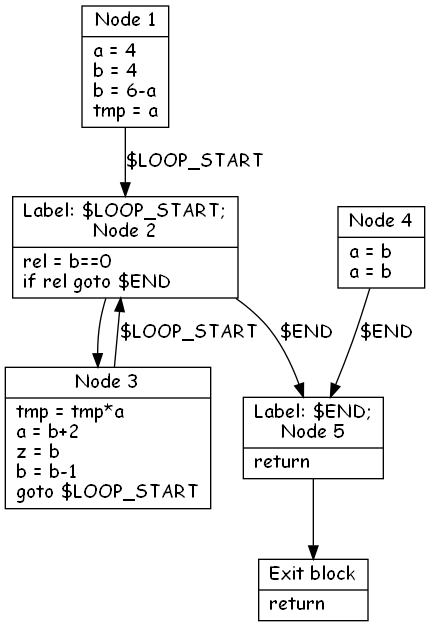
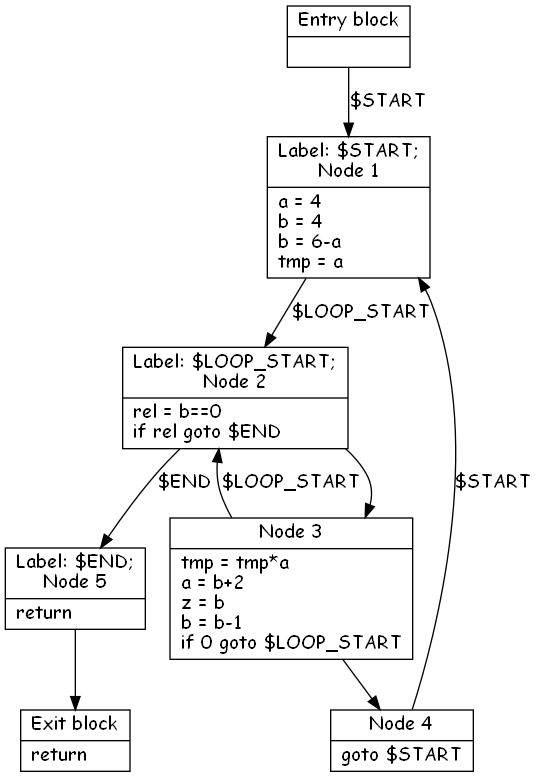
.

Changed region(s): [[0.0, 0.0, 0.9977, 1.0]]

diff --git a/tac_worker/dataflow_graph.cpp b/tac_worker/dataflow_graph.cpp
@@ -12,8 +12,14 @@ void remove_blocks_without_predecessors(std::vector<std::unique_ptr<Node>> &node
 
 
 void add_exit_block(std::vector<std::unique_ptr<Node>> &nodes) {
+    auto entry_block = std::make_unique<Node>();
+    entry_block->node_name = "Entry block";
+    entry_block->id = 0;
+    entry_block->add_successor(nodes.front().get());
+
     auto exit_node = std::make_unique<Node>();
     exit_node->node_name = "Exit block";
+    exit_node->id = nodes.back()->id+1;
     exit_node->quads.emplace_back(Quadruple({}, {}, OperationType::Return));
 
     // find blocks without successors (ending blocks) and connect them with exit block
@@ -23,7 +29,41 @@ void add_exit_block(std::vector<std::unique_ptr<Node>> &nodes) {
         }
     }
 
-    nodes.emplace_back(std::move(exit_node));
+    nodes.insert(nodes.begin(), std::move(entry_block));
+    nodes.push_back(std::move(exit_node));
+}
+
+
+void print_loops(std::vector<std::unique_ptr<Node>> &nodes) {
+
+    // generate ids for node names
+    std::map<int, std::string> name_by_id;
+    std::map<std::string, int> id_by_name;
+    int counter = 0;
+    for (const auto &n: nodes) {
+        name_by_id[counter] = n->node_name;
+        id_by_name[n->node_name] = counter;
+        ++counter;
+    }
+
+    std::map<int, std::list<int>> adjacency_list;
+    for (const auto &n: nodes) {
+        adjacency_list[id_by_name[n->node_name]] = {};
+        for (const auto &s: n->successors) {
+            adjacency_list[id_by_name[n->node_name]].emplace_back(id_by_name[s->node_name]);
+        }
+    }
+
+    LoopFinder l = LoopFinder(adjacency_list);
+    l.find();
+
+    std::cout << "Loops: " << std::endl;
+    for (const auto &loop : l.loops) {
+        for (const auto &i : loop) {
+            std::cout << name_by_id.at(i) << " -> ";
+        }
+        std::cout << std::endl;
+    }
 }
 
 void make_cfg(std::map<std::string, int> &&labels, std::vector<Quadruple> &&quads) {
@@ -48,11 +88,12 @@ void make_cfg(std::map<std::string, int> &&labels, std::vector<Quadruple> &&quad
     remove_blocks_without_predecessors(nodes);
     add_exit_block(nodes);
 //    constant_folding(nodes);
-    liveness_analyses(nodes);
-
+//    liveness_analyses(nodes);
+    print_loops(nodes);
 
     print_cfg(nodes, "after.png");
 }
+
 
 void remove_blocks_without_predecessors(std::vector<std::unique_ptr<Node>> &nodes) {
     for (int i = nodes.size() - 1; i > 0; --i) {
@@ -157,7 +198,7 @@ void print_cfg(const std::vector<std::unique_ptr<Node>> &nodes, std::string file
     DotWriter dot_writer;
     std::set<std::string> visited;
     // print edges
-    for (auto &n : nodes) {
+    for (const auto &n : nodes) {
         if (visited.find(n->node_name) == visited.end()) {
             visited.insert(n->node_name);
 
@@ -223,6 +264,7 @@ auto get_basicblocks_from_indices(const std::vector<Quadruple> &quads,
                 nodes.emplace_back(curr_node);
             }
             curr_node = new Node();
+            curr_node->id = node_number;
             curr_node->node_name = "Node " + std::to_string(node_number++);
 
             if (auto lbl = labels_rev.find(i); lbl != labels_rev.end())

diff --git a/tac_worker/LoopFinder.cpp b/tac_worker/LoopFinder.cpp
@@ -1,0 +1,108 @@
+#include <vector>
+#include <iostream>
+#include <algorithm>
+#include <list>
+#include <map>
+
+struct LoopFinder {
+    std::vector<int> stack;
+    std::map<int, std::list<int>> a;
+    std::vector<std::list<int>> b;
+    std::vector<bool> blocked;
+    int n;
+    int s;
+
+    std::vector<std::vector<int>> loops;
+
+    static void Start() {
+        std::map<int, std::list<int>> a;
+        a.emplace(0, std::list<int>{1}); // 0
+        a.emplace(1, std::list<int>{2, 3});  // 1
+        a.emplace(2, std::list<int>{1});  // 2
+        a.emplace(3, std::list<int>{4}); // 3
+        a.emplace(4, std::list<int>{}); // 4
+
+        LoopFinder cf = LoopFinder(a);
+        cf.find();
+
+        std::cout << "Unique loops: " << std::endl;
+        for (const auto &loop : cf.loops) {
+            for (const auto &el : loop) {
+                std::cout << el << " ";
+            }
+            std::cout << std::endl;
+        }
+
+    }
+
+    LoopFinder(const std::map<int, std::list<int>> &a) : a(a), n(a.size()) {
+        for (int i = 0; i < n; i++) {
+            b.emplace_back();
+            blocked.emplace_back(false);
+        }
+    }
+
+    void unblock(int u) {
+        blocked[u] = false;
+        while (!b[u].empty()) {
+            int w = b[u].front();
+            b[u].pop_front();
+            if (blocked[w]) unblock(w);
+        }
+    }
+
+    bool circuit(int v) {
+        bool f = false;
+        stack.push_back(v);
+        blocked[v] = true;
+        // L1
+        for (int w : a[v]) {
+            if (w == s) {
+                add_loop();
+                f = true;
+            } else if (!blocked[w])
+                if (circuit(w)) f = true;
+        }
+
+        // L2
+        if (f)
+            unblock(v);
+        else {
+            for (int w : a[v])
+                if (std::find(b[w].begin(), b[w].end(), v) == b[w].end())
+                    b[w].push_back(v);
+        }
+        stack.pop_back();
+        return f;
+    }
+
+    void add_loop() {
+        std::vector<int> loop;
+        for (int i : stack) {
+//            std::cout << i << " ";
+            loop.push_back(i);
+        }
+        loops.emplace_back(loop);
+//        std::cout << s << std::endl;
+    }
+
+    void find() {
+        s = 0;
+        while (s < n) {
+            if (!a.empty()) {
+                for (auto &[i, l] : a) {
+                    b[i].clear();
+                    blocked[i] = false;
+                }
+                // L3
+                circuit(s);
+                a.erase(s);
+                for (auto &[i, l] : a)
+                    if (auto it = std::find(a[i].begin(), a[i].end(), s); it != a[i].end())
+                        a[i].erase(it);
+                s++;
+            } else
+                s = n;
+        }
+    }
+};

diff --git a/cmake-build-debug/parser.hpp b/cmake-build-debug/parser.hpp
@@ -24,7 +24,7 @@
 // as a parser skeleton.  Alternatively, if you modify or redistribute
 // the parser skeleton itself, you may (at your option) remove this
 // special exception, which will cause the skeleton and the resulting
-// Bison output files to be licensed under the GNU General Public
+// Bison add_loop files to be licensed under the GNU General Public
 // License without this special exception.
 
 // This special exception was added by the Free Software Foundation in
@@ -1445,7 +1445,7 @@ switch (yykind)
     bool yy_lac_establish_ (symbol_kind_type yytoken);
     /// Discard any previous initial lookahead context because of event.
     /// \param event  the event which caused the lookahead to be discarded.
-    ///               Only used for debbuging output.
+    ///               Only used for debbuging add_loop.
     void yy_lac_discard_ (const char* event);
 
     /// Stored state numbers (used for stacks).
@@ -1529,7 +1529,7 @@ switch (yykind)
     std::ostream* yycdebug_;
 
     /// \brief Display a symbol kind, value and location.
-    /// \param yyo    The output stream.
+    /// \param yyo    The add_loop stream.
     /// \param yysym  The symbol.
     template <typename Base>
     void yy_print_ (std::ostream& yyo, const basic_symbol<Base>& yysym) const;
@@ -1734,14 +1734,14 @@ switch (yykind)
 
     /// Push a new state on the stack.
     /// \param m    a debug message to display
-    ///             if null, no trace is output.
+    ///             if null, no trace is add_loop.
     /// \param sym  the symbol
     /// \warning the contents of \a s.value is stolen.
     void yypush_ (const char* m, YY_MOVE_REF (stack_symbol_type) sym);
 
     /// Push a new look ahead token on the state on the stack.
     /// \param m    a debug message to display
-    ///             if null, no trace is output.
+    ///             if null, no trace is add_loop.
     /// \param s    the state
     /// \param sym  the symbol (for its value and location).
     /// \warning the contents of \a sym.value is stolen.

diff --git a/cmake-build-debug/parser.cpp b/cmake-build-debug/parser.cpp
@@ -24,7 +24,7 @@
 // as a parser skeleton.  Alternatively, if you modify or redistribute
 // the parser skeleton itself, you may (at your option) remove this
 // special exception, which will cause the skeleton and the resulting
-// Bison output files to be licensed under the GNU General Public
+// Bison add_loop files to be licensed under the GNU General Public
 // License without this special exception.
 
 // This special exception was added by the Free Software Foundation in
@@ -1088,7 +1088,7 @@ namespace yy {
 
 #if YYDEBUG
     // Execute LAC once. We don't care if it is successful, we
-    // only do it for the sake of debugging output.
+    // only do it for the sake of debugging add_loop.
     if (!yyparser_.yy_lac_established_)
       yyparser_.yy_lac_check_ (yyla_.kind ());
 #endif

diff --git a/DotWriter/DotWriter.cpp b/DotWriter/DotWriter.cpp
@@ -14,7 +14,7 @@ void DotWriter::set_node_name(const std::string &node, const std::string &name) 
 }
 
 void DotWriter::set_node_text(const std::string &node_name, const std::vector<std::string> &lines) {
-    node_texts.emplace(node_name, lines);
+    node_texts.emplace_back(node_name, lines);
 }
 
 void DotWriter::write_dot_to_file(const std::string &filename) {
@@ -80,6 +80,7 @@ void DotWriter::render_to_file(const std::string &filename) {
 
     GVC_t *gvc = gvContext();
     Agraph_t *g = agopen((char *) "g", Agdirected, nullptr);
+
 
     for (auto &[node, label_lines] : node_texts) {
         std::string final_label;

diff --git a/tac_worker/dataflow_graph.hpp b/tac_worker/dataflow_graph.hpp
@@ -2,19 +2,28 @@
 #define TAC_PARSER_DATAFLOW_GRAPH_HPP
 
 #include <set>
+#include <list>
+#include <map>
+
 #include <algorithm>
 #include <memory>
 
 #include "quadruple.hpp"
 #include "../DotWriter/DotWriter.h"
+#include "../tac_worker/LoopFinder.cpp"
 
 struct Node {
+    int id;
     std::string node_name;
     std::optional<std::string> lbl_name;
     std::vector<Quadruple> quads;
     std::optional<std::string> jumps_to;
     std::set<Node *> successors;
     std::set<Node *> predecessors;
+
+    std::string get_name() {
+        return "Node " + std::to_string(id);
+    }
 
     std::string fmt() const
     {

diff --git a/cmake-build-debug/lexer.cpp b/cmake-build-debug/lexer.cpp
@@ -678,7 +678,7 @@ static int input ( void );
 #endif /* __ia64__ */
 #endif
 
-/* Copy whatever the last rule matched to the standard output. */
+/* Copy whatever the last rule matched to the standard add_loop. */
 #ifndef ECHO
 /* %if-c-only Standard (non-C++) definition */
 /* This used to be an fputs(), but since the string might contain NUL's,
@@ -1986,7 +1986,7 @@ FILE *yyget_in  (void)
         return yyin;
 }
 
-/** Get the output stream.
+/** Get the add_loop stream.
  * 
  */
 FILE *yyget_out  (void)

diff --git a/DotWriter/DotWriter.h b/DotWriter/DotWriter.h
@@ -15,7 +15,7 @@
 
 class DotWriter {
     std::map<std::string, std::string> node_names;
-    std::map<std::string, std::vector<std::string>> node_texts;
+    std::vector<std::pair<std::string, std::vector<std::string>>> node_texts;
     std::vector<std::tuple<std::string, std::string, std::string>> edges;
 
 public:

diff --git a/main.cpp b/main.cpp
@@ -3,7 +3,9 @@
 #include "driver/driver.hpp"
 #include "tac_worker/dataflow_graph.hpp"
 
+
 int main(int argc, char *argv[]) {
+
 
     int res = 0;
     driver drv;
